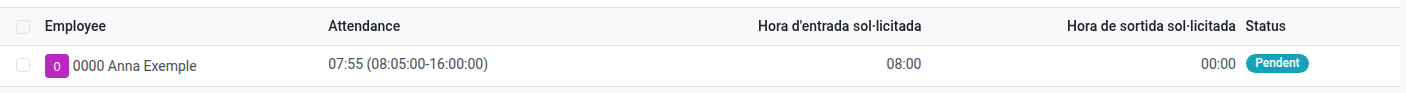
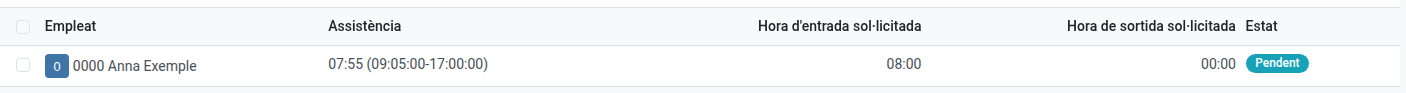
Head of Studies screenshot test: the correction's employee belongs to their branch (#633)

diff --git a/tests/test_docs_screenshots_head_of_studies.py b/tests/test_docs_screenshots_head_of_studies.py
@@ -106,8 +106,9 @@ class TestDocsScreenshotsHeadOfStudies(HttpCase, DocsScreenshotMixin):
         })
 
         # --- Attendance correction ---
+        # Below the Head of Studies: they only see the requests of their own branch (issue #543).
         cls.correction_employee = cls.env['hr.employee'].create({
-            'name': '0000 Anna Exemple', 'employee_type': 'teacher',
+            'name': '0000 Anna Exemple', 'employee_type': 'teacher', 'parent_id': cls.hos_employee.id,
         })
         cls.attendance = cls.env['hr.attendance'].create({
             'employee_id': cls.correction_employee.id,

diff --git a/changelog/633-orientation-attendance-permissions.md b/changelog/633-orientation-attendance-permissions.md
@@ -67,6 +67,12 @@
 
 # Internal changes
 
+## Head of Studies screenshot test fixed (issue #633):
+- The Head of Studies' manual screenshots test failed on the attendance corrections list: since issue
+  #543 a Head of Studies only sees the requests of their own branch, and the fixture's employee
+  depended on nobody. The employee now hangs below the fixture's Head of Studies. The regenerated
+  screenshot also shows the list headers translated.
+
 ## Attendance reports tests and docs (issue #633):
 - New TestAttendanceReportScopeLadder: the chain of command for 13 profiles and a parity test (for
   every profile, the wizard's students/groups/subjects are those of the pivot's lines, and the
